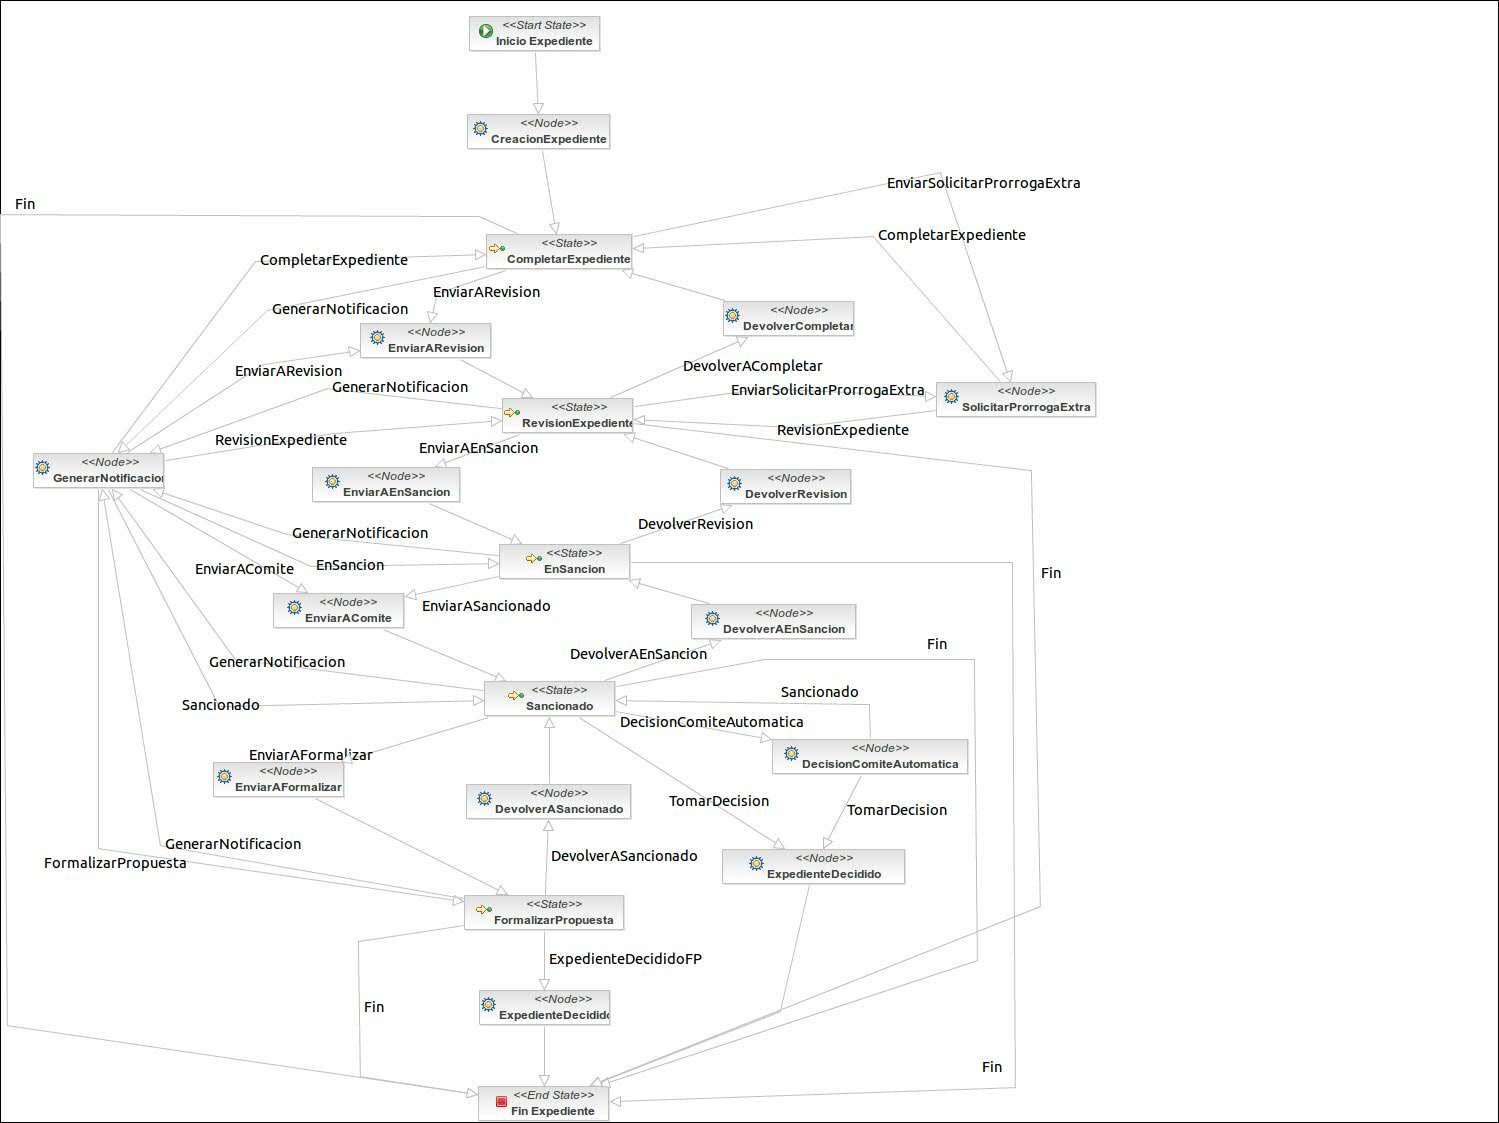
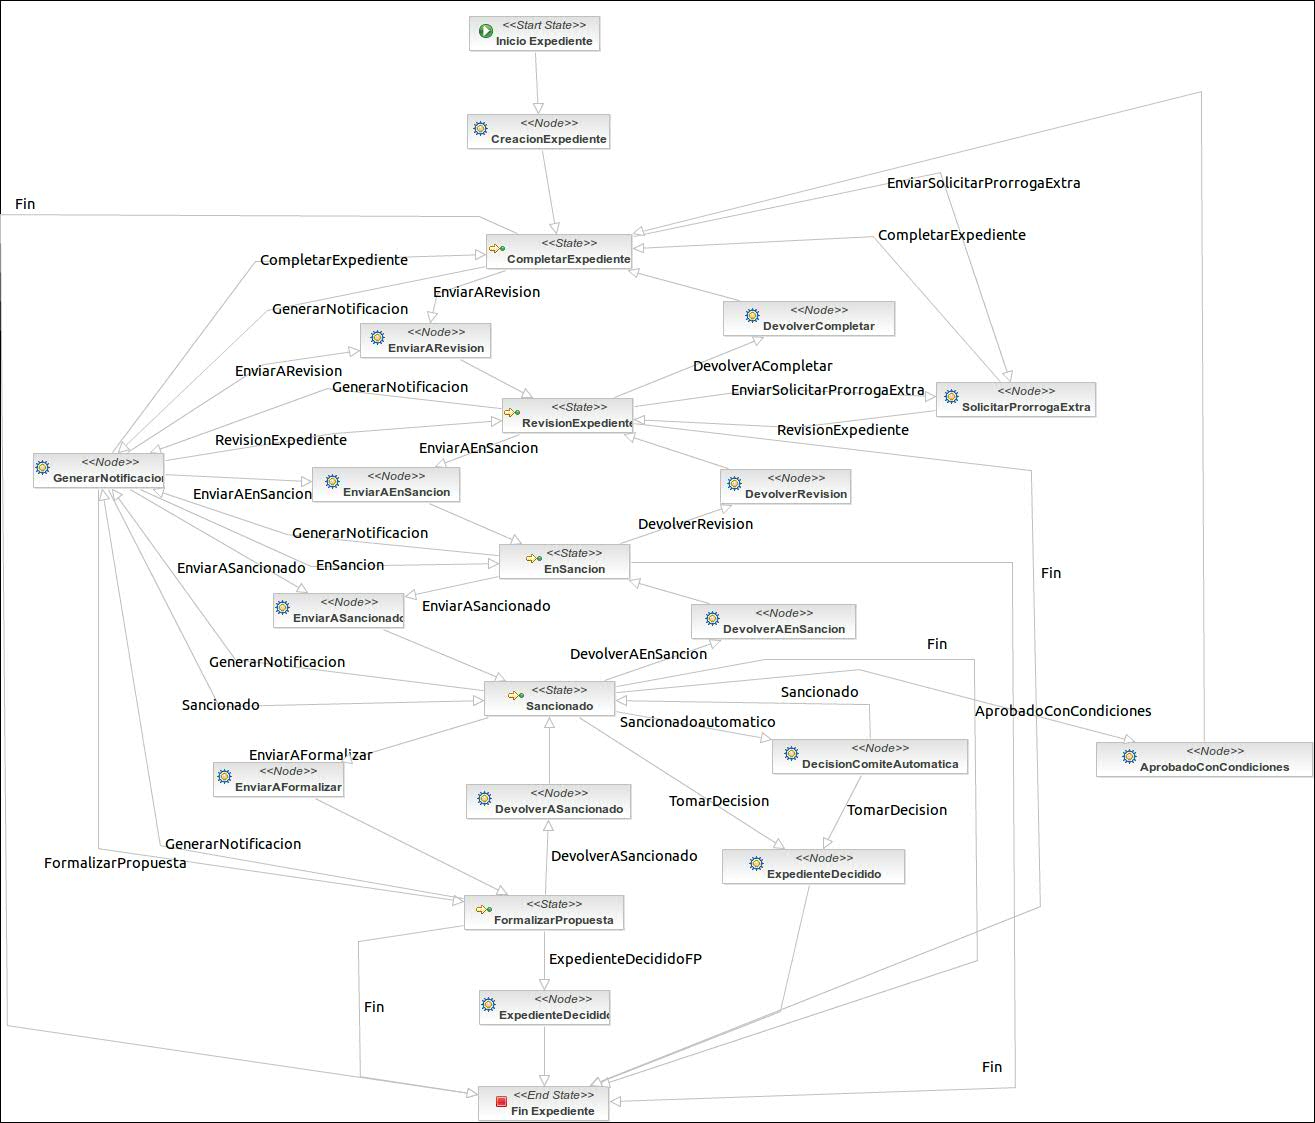
HR-794 Creación de handlers para el nuevo BPM
Former-commit-id: 0cf4a44472738aa916fa57c2d8d46c30c6e63902

diff --git a/recovery-procedimientos-bpm/src/main/java/es/pfsgroup/procedimientos/expediente/deuda/PROCompletarExpedienteDeudaActionHandler.java b/recovery-procedimientos-bpm/src/main/java/es/pfsgroup/procedimientos/expediente/deuda/PROCompletarExpedienteDeudaActionHandler.java
@@ -1,0 +1,151 @@
+package es.pfsgroup.procedimientos.expediente.deuda;
+
+import java.util.Date;
+
+import org.apache.commons.logging.Log;
+import org.apache.commons.logging.LogFactory;
+import org.jbpm.graph.exe.ExecutionContext;
+import org.jbpm.job.Timer;
+import org.springframework.beans.factory.annotation.Autowired;
+
+import es.capgemini.devon.utils.BPMUtils;
+import es.capgemini.pfs.expediente.process.ExpedienteBPMConstants;
+import es.capgemini.pfs.itinerario.EstadoProcesoManager;
+import es.capgemini.pfs.itinerario.model.DDEstadoItinerario;
+import es.capgemini.pfs.itinerario.model.Estado;
+import es.capgemini.pfs.tareaNotificacion.dto.DtoGenerarTarea;
+import es.capgemini.pfs.tareaNotificacion.model.DDTipoEntidad;
+import es.capgemini.pfs.tareaNotificacion.model.SubtipoTarea;
+import es.capgemini.pfs.tareaNotificacion.model.TareaNotificacion;
+import es.pfsgroup.procedimientos.PROBaseActionHandler;
+import es.pfsgroup.recovery.api.ArquetipoApi;
+import es.pfsgroup.recovery.api.ExpedienteApi;
+import es.pfsgroup.recovery.api.JBPMProcessApi;
+import es.pfsgroup.recovery.api.TareaNotificacionApi;
+
+/**
+ * Handler del nodo Completar Expediente.
+ * @author jbosnjak
+ *
+ */
+public class PROCompletarExpedienteDeudaActionHandler extends PROBaseActionHandler implements ExpedienteBPMConstants {
+
+    private final Log logger = LogFactory.getLog(getClass());
+
+    private static final long serialVersionUID = 1L;
+
+    @Autowired
+    private EstadoProcesoManager estadoProcesoManager;
+
+
+    /**Este metodo controla el estado de completar expediente.
+     *
+     * @throws Exception e
+     */
+    @Override
+    public void run(ExecutionContext executionContext) throws Exception {
+        if (logger.isDebugEnabled()) {
+            logger.debug("CompletarExpedienteActionHandler......");
+        }
+        
+        TareaNotificacionApi notificacionManager = proxyFactory.proxy(TareaNotificacionApi.class);
+        ExpedienteApi expedienteManager = proxyFactory.proxy(ExpedienteApi.class);
+        JBPMProcessApi jbpmUtils = proxyFactory.proxy(JBPMProcessApi.class);
+        
+        Long idExpediente = (Long) executionContext.getVariable(EXPEDIENTE_ID);
+        Long idArquetipo = (Long) executionContext.getVariable(ARQUETIPO_ID);
+
+        String comeFrom = executionContext.getTransitionSource().getName();
+        if (!GENERAR_NOTIFICACION.equals(comeFrom) && !SOLICITAR_PRORROGA_EXTRA.equals(comeFrom)) {
+            //Se deber� generar la tarea para el gestor
+            Estado estadoCE = proxyFactory.proxy(ArquetipoApi.class).getWithEstado(idArquetipo).getItinerario().getEstado(DDEstadoItinerario.ESTADO_COMPLETAR_EXPEDIENTE);
+            estadoProcesoManager.pasarDeEstado(idExpediente, DDTipoEntidad.CODIGO_ENTIDAD_EXPEDIENTE, estadoCE, executionContext.getProcessInstance()
+                    .getId());
+            Long idTareaAnterior = (Long) executionContext.getVariable(TAREA_ASOCIADA_CE);
+            Long fechaFin = obtenerFinTareaAnterior(idTareaAnterior);
+            Long plazoRestante = 0L;
+            if (!DEVOLVER_COMPLETAR.equals(comeFrom) && estadoCE.getAutomatico() != null && estadoCE.getAutomatico()) {
+            	plazoRestante = estadoCE.getPlazo();
+            } else {            	
+            	plazoRestante = calcularTiempoRestante(idExpediente, estadoCE.getPlazo(), fechaFin);
+            }
+            Long seconds = (plazoRestante.longValue() / MILLISECONDS);
+
+            DtoGenerarTarea dto = new DtoGenerarTarea(idExpediente, DDTipoEntidad.CODIGO_ENTIDAD_EXPEDIENTE,
+                    SubtipoTarea.CODIGO_COMPLETAR_EXPEDIENTE, false, false, plazoRestante, "");
+            Long idTareaCE = notificacionManager.crearTarea(dto);
+            if (fechaFin != null) {
+                TareaNotificacion tareaActual = notificacionManager.get(idTareaCE);
+                tareaActual.setFechaVenc(new Date(fechaFin));
+                notificacionManager.saveOrUpdate(tareaActual);
+            }
+
+            expedienteManager.setInstanteCambioEstadoExpediente(idExpediente);
+            executionContext.setVariable(TAREA_ASOCIADA_CE, idTareaCE);
+            //Si venimos de "devolver a completar" se desactiva el avance automático en todos los casos.
+            if (!DEVOLVER_COMPLETAR.equals(comeFrom) && estadoCE.getAutomatico() != null && estadoCE.getAutomatico()) {
+                executionContext.setVariable(GENERAALERTA, Boolean.TRUE);
+                executionContext.setVariable(WHERE_TO_GO, TRANSITION_ENVIARAREVISION);
+            } else {
+                executionContext.setVariable(GENERAALERTA, Boolean.TRUE);
+                executionContext.setVariable(WHERE_TO_GO, COMPLETAR_EXPEDIENTE);
+            }
+            executionContext.setVariable(AVANCE_AUTOMATICO, Boolean.FALSE);
+            BPMUtils.createTimer(executionContext, TIMER_TAREA_CE, seconds + " seconds", GENERAR_NOTIFICACION);
+        }
+
+        /**
+         * @deprecated Este trozo de c�digo est� deprecado, en fase 1 se usaba, ahora ya no
+         */
+
+        if (SOLICITAR_PRORROGA_EXTRA.equals(comeFrom)) {
+            Long idTareaCE = (Long) executionContext.getVariable(TAREA_ASOCIADA_CE);
+            Date fechaPropuesta = (Date) executionContext.getVariable(FECHA_PROPUESTA);
+
+            TareaNotificacion tarea = notificacionManager.get(idTareaCE);
+            tarea.setFechaVenc(fechaPropuesta);
+            notificacionManager.saveOrUpdate(tarea);
+
+            //Si el timer ya exist�a lo recalculamos
+            Timer timer = BPMUtils.getTimer(executionContext.getJbpmContext(), executionContext.getProcessInstance(), TIMER_TAREA_CE);
+            if (timer != null) {
+                jbpmUtils.recalculaTimer(executionContext.getProcessInstance().getId(), TIMER_TAREA_CE, fechaPropuesta);
+            } else {
+                //Si el timer no exist�a lo creamos
+                BPMUtils.createTimer(executionContext, TIMER_TAREA_CE, fechaPropuesta, GENERAR_NOTIFICACION);
+            }
+        }
+    }
+
+    /**
+     * calcular el tiempo restante para la tarea.
+     * @param idExpediente id expediente
+     * @param plazo plazo
+     * @param fechaFin fechaFin
+     * @return plazo restante
+     */
+    private Long calcularTiempoRestante(Long idExpediente, Long plazo, Long fechaFin) {
+    	ExpedienteApi expedienteManager = proxyFactory.proxy(ExpedienteApi.class);
+        Long now = new Date().getTime();
+        if (fechaFin != null) { return fechaFin - now; }
+        Long creacionExp = expedienteManager.getExpediente(idExpediente).getAuditoria().getFechaCrear().getTime();
+        Long tiempoTranscurrido = now - creacionExp;
+        Long tiempoRestante = plazo - tiempoTranscurrido;        
+        return (tiempoRestante<0) ? (24*60*60*1000L) : tiempoRestante;
+    }
+
+    /**
+     * obtenerFinTareaAnterior.
+     * @param idTareaAnterior idTareaAnterior
+     * @return fecha
+     */
+    private Long obtenerFinTareaAnterior(Long idTareaAnterior) {
+    	TareaNotificacionApi notificacionManager = proxyFactory.proxy(TareaNotificacionApi.class);
+        TareaNotificacion tareaAnterior = null;
+        if (idTareaAnterior != null) {
+            tareaAnterior = notificacionManager.get(idTareaAnterior);
+        }
+        if (tareaAnterior != null) { return tareaAnterior.getFechaVenc().getTime(); }
+        return null;
+    }
+}

diff --git a/recovery-procedimientos-bpm/src/main/java/es/pfsgroup/procedimientos/expediente/deuda/PROEnviarARevisionDeudaActionHandler.java b/recovery-procedimientos-bpm/src/main/java/es/pfsgroup/procedimientos/expediente/deuda/PROEnviarARevisionDeudaActionHandler.java
@@ -1,0 +1,82 @@
+package es.pfsgroup.procedimientos.expediente.deuda;
+
+import org.apache.commons.logging.Log;
+import org.apache.commons.logging.LogFactory;
+import org.jbpm.graph.exe.ExecutionContext;
+
+import es.capgemini.devon.utils.BPMUtils;
+import es.capgemini.pfs.expediente.process.ExpedienteBPMConstants;
+import es.capgemini.pfs.itinerario.model.DDEstadoItinerario;
+import es.capgemini.pfs.utils.JBPMProcessManager;
+import es.pfsgroup.commons.utils.Checks;
+import es.pfsgroup.procedimientos.PROBaseActionHandler;
+import es.pfsgroup.recovery.api.ExpedienteApi;
+import es.pfsgroup.recovery.api.TareaNotificacionApi;
+
+/**
+ * Handler Del Nodo Enviar a Revision.
+ * @author jbosnjak
+ *
+ */
+public class PROEnviarARevisionDeudaActionHandler extends PROBaseActionHandler implements ExpedienteBPMConstants {
+
+    private final Log logger = LogFactory.getLog(getClass());
+
+    private static final long serialVersionUID = 1L;
+
+    /**
+     * Las variables boolean en jbpm se almacenan como String T/F.
+     * @param executionContext
+     * @return
+     */
+    private boolean generaAlerta(ExecutionContext executionContext) {
+        return JBPMProcessManager.getFixeBooleanValue(executionContext, GENERAALERTA);
+    }
+
+    private boolean esAvanceAutomatico(ExecutionContext executionContext) {    	
+    	return Checks.esNulo(JBPMProcessManager.getFixeBooleanValue(executionContext, AVANCE_AUTOMATICO)) ? false : JBPMProcessManager.getFixeBooleanValue(executionContext, AVANCE_AUTOMATICO) ;
+    }
+    /**Este metodo debe llamar a la creacion del expediente.
+     *
+     * @throws Exception e
+     */
+    @Override
+    public void run(ExecutionContext executionContext) throws Exception {
+        logger.debug("---------ENTRE EN EnviarARevisionActionHandler---------");
+
+        ExpedienteApi expedienteManager = proxyFactory.proxy(ExpedienteApi.class);
+        TareaNotificacionApi notificacionManager = proxyFactory.proxy(TareaNotificacionApi.class);
+        
+        //Borra el timer en caso de que no se haya ejecutado
+        //BPMUtils.deleteTimer(executionContext);
+
+        //Comprobamos si viene de una transici�n autom�tica (timer desde generar notificaci�n) o viene de una transici�n manual (desde el estado anterior)
+        //Si es manual borramos los timers, si es autom�tica no podemos borrar timers porque se est� ejecutando uno de ellos y se embucla
+        if (!esAvanceAutomatico(executionContext)) {
+            BPMUtils.deleteTimer(executionContext, TIMER_TAREA_CE);
+            BPMUtils.deleteTimer(executionContext, TIMER_TAREA_RE);
+            BPMUtils.deleteTimer(executionContext, TIMER_TAREA_ENSAN); 
+            BPMUtils.deleteTimer(executionContext, TIMER_TAREA_SANC);
+        }
+        executionContext.setVariable(AVANCE_AUTOMATICO, Boolean.FALSE);
+
+        //Borra la tarea asociada a CE
+        /*Long idTarea = (Long) executionContext.getVariable(TAREA_ASOCIADA_CE);
+
+        notificacionManager.borrarNotificacionTarea(idTarea);
+        */
+        Long idExpediente = (Long) executionContext.getVariable(EXPEDIENTE_ID);
+
+        notificacionManager.eliminarTareasInvalidasElevacionExpediente(idExpediente, DDEstadoItinerario.ESTADO_COMPLETAR_EXPEDIENTE);
+
+        if (logger.isDebugEnabled()) {
+            logger.debug("Cambio el estado del expediente a RE");
+        }
+        executionContext.setVariable(TAREA_ASOCIADA_CE, null);
+
+        expedienteManager.cambiarEstadoItinerarioExpediente(idExpediente, DDEstadoItinerario.ESTADO_REVISAR_EXPEDIENTE);
+
+        executionContext.getProcessInstance().signal();
+    }
+
+}

diff --git a/recovery-procedimientos-bpm/src/main/java/es/pfsgroup/procedimientos/expediente/deuda/PRODevolverCompletarDeudaActionHandler.java b/recovery-procedimientos-bpm/src/main/java/es/pfsgroup/procedimientos/expediente/deuda/PRODevolverCompletarDeudaActionHandler.java
@@ -1,0 +1,65 @@
+package es.pfsgroup.procedimientos.expediente.deuda;
+
+import org.apache.commons.logging.Log;
+import org.apache.commons.logging.LogFactory;
+import org.jbpm.graph.exe.ExecutionContext;
+import org.springframework.beans.factory.annotation.Autowired;
+import org.springframework.stereotype.Component;
+
+import es.capgemini.devon.utils.BPMUtils;
+import es.capgemini.pfs.expediente.process.ExpedienteBPMConstants;
+import es.capgemini.pfs.itinerario.model.DDEstadoItinerario;
+import es.pfsgroup.procedimientos.PROBaseActionHandler;
+import es.pfsgroup.recovery.api.ExpedienteApi;
+import es.pfsgroup.recovery.api.TareaNotificacionApi;
+
+/**
+ * Handler del Nodo Devolver A Completar Expediente.
+ * @author jbosnjak
+ *
+ */
+public class PRODevolverCompletarDeudaActionHandler extends PROBaseActionHandler implements ExpedienteBPMConstants {
+
+    private final Log logger = LogFactory.getLog(getClass());
+
+    private static final long serialVersionUID = 1L;
+
+    
+
+    /**Este metodo debe llamar a la creacion del expediente.
+     *
+     *
+     * @throws Exception e
+     */
+    @Override
+    public void run(ExecutionContext executionContext) throws Exception {
+        logger.debug("---------ENTRE EN DevolverCompletarActionHandler---------");
+        
+        ExpedienteApi expedienteManager = proxyFactory.proxy(ExpedienteApi.class);
+        TareaNotificacionApi notificacionManager = proxyFactory.proxy(TareaNotificacionApi.class);
+
+        //Borra el timer en caso de que no se haya ejecutado
+        BPMUtils.deleteTimer(executionContext, TIMER_TAREA_CE);
+        BPMUtils.deleteTimer(executionContext, TIMER_TAREA_RE);
+        BPMUtils.deleteTimer(executionContext, TIMER_TAREA_ENSAN); 
+        BPMUtils.deleteTimer(executionContext, TIMER_TAREA_SANC);
+
+        //Borra la tarea asociada a RE
+        /*Long idTarea = (Long) executionContext.getVariable(TAREA_ASOCIADA_RE);
+
+        notificacionManager.borrarNotificacionTarea(idTarea);*/
+        Long idExpediente = (Long) executionContext.getVariable(EXPEDIENTE_ID);
+        notificacionManager.eliminarTareasInvalidasElevacionExpediente(idExpediente, DDEstadoItinerario.ESTADO_REVISAR_EXPEDIENTE);
+
+        executionContext.setVariable(TAREA_ASOCIADA_RE, null);
+
+        if (logger.isDebugEnabled()) {
+            logger.debug("Vuelvo al estado del expediente a CE");
+        }
+
+        expedienteManager.cambiarEstadoItinerarioExpediente(idExpediente, DDEstadoItinerario.ESTADO_COMPLETAR_EXPEDIENTE);
+
+        executionContext.getProcessInstance().signal();
+    }
+
+}

diff --git a/recovery-domain/src/main/java/es/capgemini/pfs/expediente/process/ExpedienteBPMConstants.java b/recovery-domain/src/main/java/es/capgemini/pfs/expediente/process/ExpedienteBPMConstants.java
@@ -41,6 +41,8 @@ public interface ExpedienteBPMConstants extends BPMContants {
     String TIMER_TAREA_RE = "TIMER_RE";
     String TIMER_TAREA_DC = "TIMER_DC";
     String TIMER_TAREA_FP = "TIMER_FP";
+    String TIMER_TAREA_ENSAN = "TIMER_ENSAN";
+    String TIMER_TAREA_SANC = "TIMER_SANC";
     String NEW_TIMER_TIME = "prorrogaEnSegundos";
     String FECHA_PROPUESTA = "fechaPropuesta";
     String RESPUESTA_DEVOLVER_CE = "respuestaDevolverCE";
